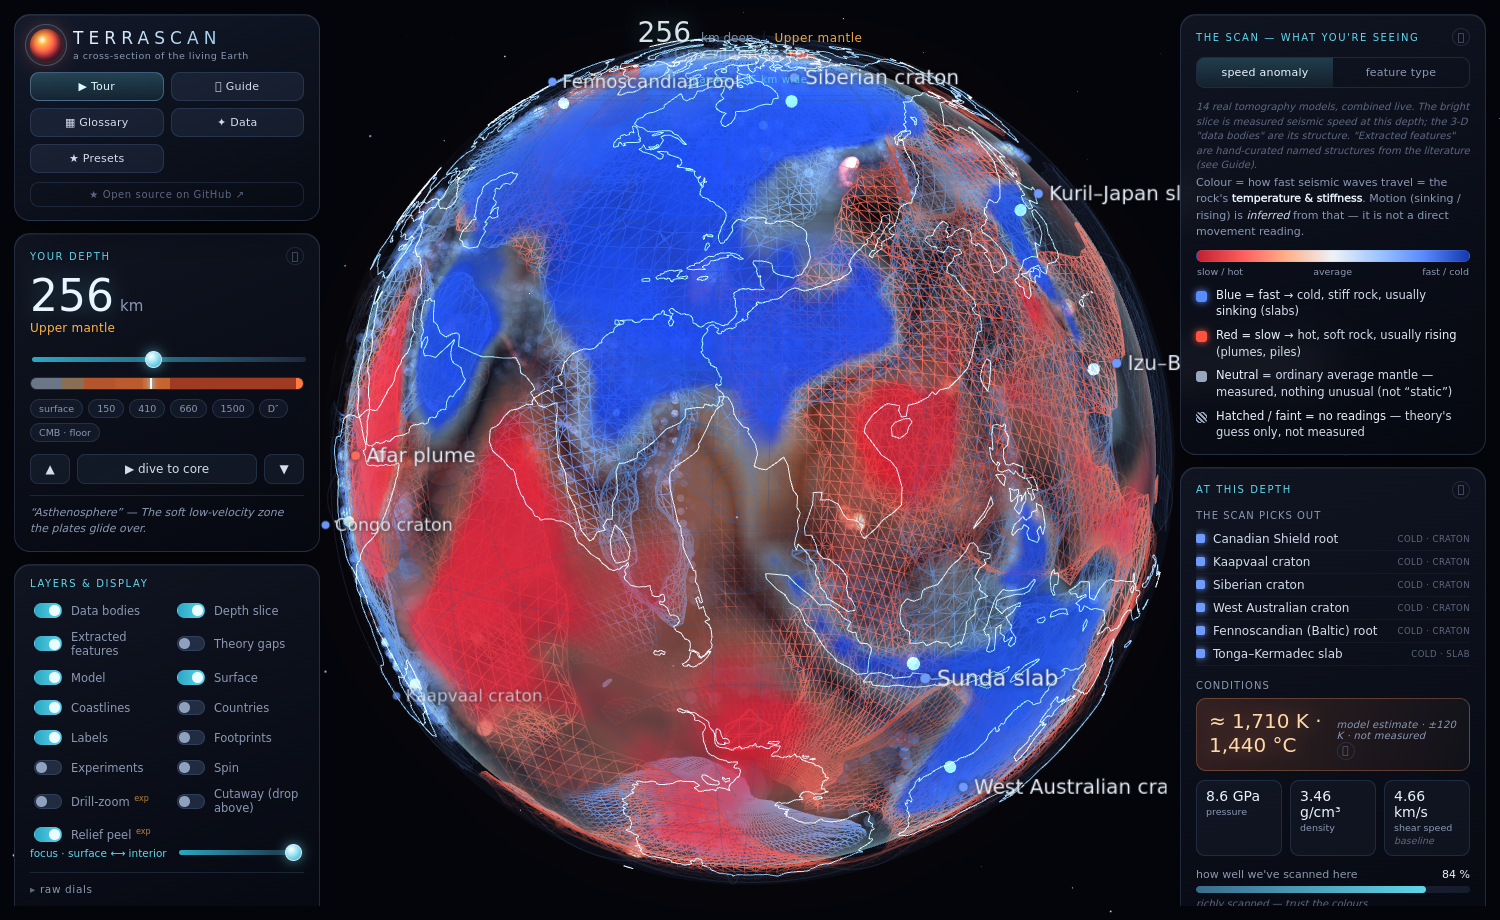
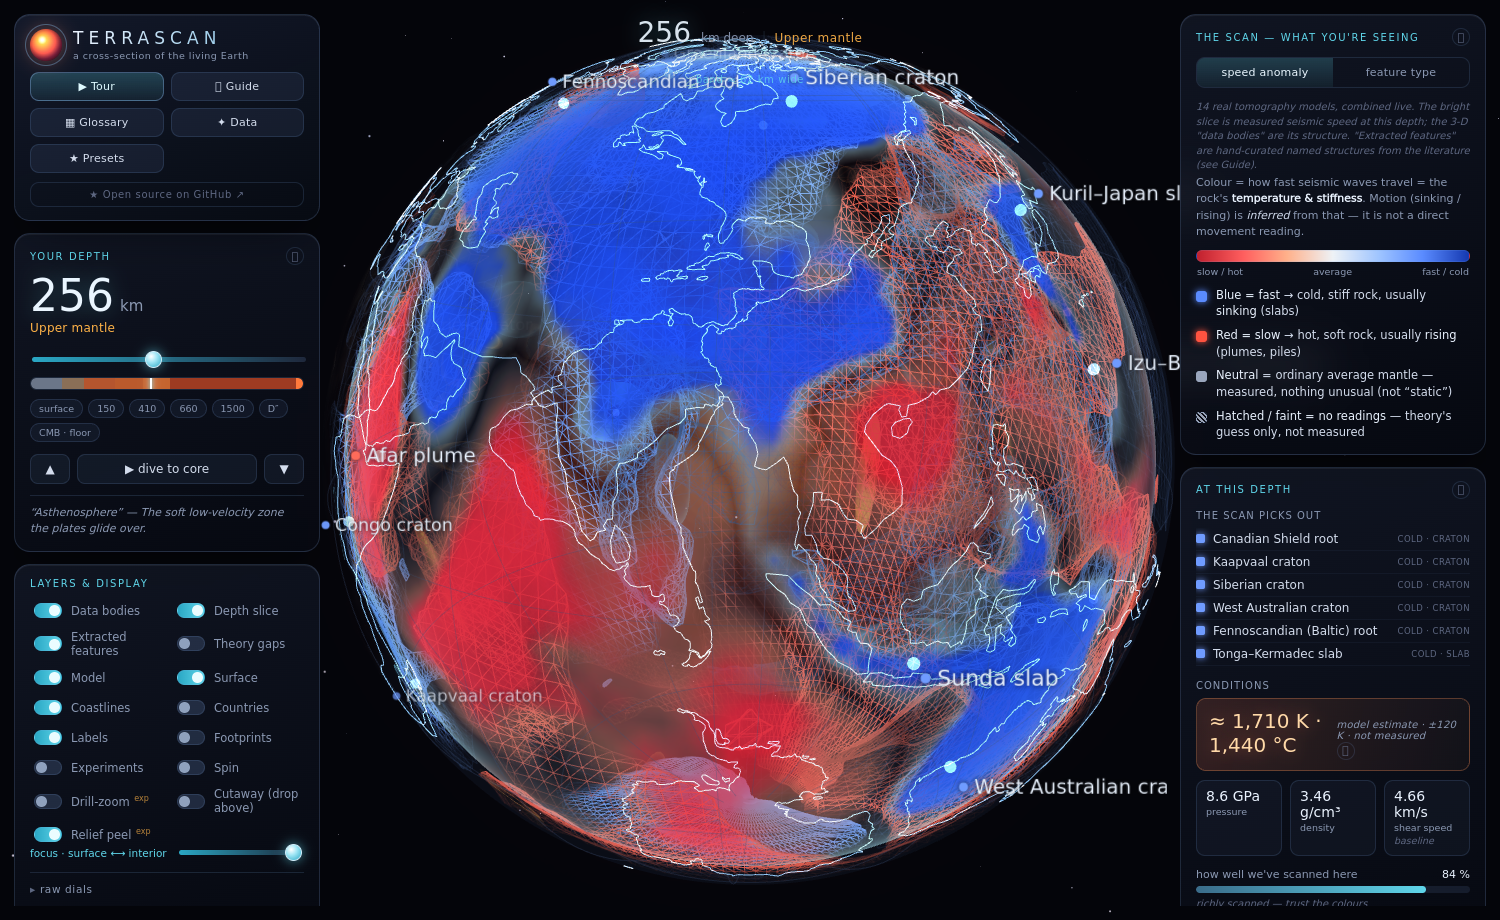
Extracted features: render as translucent ellipsoid SURFACES (azure/amber), distinct from the data mesh
Replaces the additive sphere-blob cloud with one smooth, oriented ellipsoid per feature,
sized to its published lat/lon/depth extent and aligned tangent to the globe — a fresnel-rimmed
translucent surface (InstancedMesh of icospheres + instanceMatrix). New palette shifts the
cold/hot coding to azure (cold) / amber (hot) so the interpretation reads clearly against the
data bodies' deep blue/red. Footprints recoloured to match. All controls preserved
(opacity/glow/size/survey-link, depth band, cutaway, hover/focus, mode, pick proxies).

diff --git a/js/structures.js b/js/structures.js
@@ -1,18 +1,19 @@
-// structures.js — features as a blob FIELD placed in true (lat,lon,depth) space
-// so it always hugs the globe (never tangential / never pokes out). Each feature
-// is drawn at two scales at once: many small blobs (raw resolution) + a sparse
-// set of big soft blobs (the low-res "cluster" / rough shape). One additive
-// instanced cloud for looks; light invisible proxies for hover/extract picking.
+// structures.js — "Extracted features": the hand-curated named structures (slabs, LLSVPs,
+// plumes, cratons, ridges) rendered as smooth translucent SURFACES — one oriented ellipsoid
+// per feature, sized to its published extent and aligned tangent to the globe. Deliberately
+// a DIFFERENT palette from the measured data bodies (azure / amber vs deep blue / red) so the
+// interpretation reads distinctly from the data. Footprints + invisible pick proxies as before.
 import * as THREE from 'three';
 import { FEATURES, CATEGORY } from './tomography.js';
 import { EARTH_RADIUS, depthToUnit } from './earthModel.js';
 import { latLonToVec3 } from './geo.js';
 
-const ANOM = { fast:[0.42,0.62,1.0], slow:[1.0,0.38,0.30] };
+// distinct shades from the data bodies' deep blue/red — keep cold/hot coding, shift hue:
+const ANOM = { fast:[0.45,0.82,1.0], slow:[1.0,0.62,0.28] };   // azure (cold) · amber (hot)
 const catRGB = (id)=>{ const c=new THREE.Color(Object.values(CATEGORY).sort((a,b)=>a.id-b.id)[id].color); return [c.r,c.g,c.b]; };
 function mulberry32(a){return function(){a|=0;a=a+0x6D2B79F5|0;let t=Math.imul(a^a>>>15,1|a);t=t+Math.imul(t^t>>>7,61|t)^t;return((t^t>>>14)>>>0)/4294967296;};}
 
-// per-type DETAIL sampling: points in (lat,lon,depth) — the raw resolution
+// per-type DETAIL sampling: points in (lat,lon,depth) — used to build the surface footprints
 function sampleDetail(f, rnd){
   const pts=[], span=f.dBot-f.dTop, push=(lat,lon,depth,scale)=>pts.push([lat,lon,depth,scale]);
   if(f.type==='plume'){
@@ -49,34 +50,41 @@ function sampleDetail(f, rnd){
   return pts;
 }
 
-const VERT=`precision highp float;
-  uniform mat4 modelViewMatrix, projectionMatrix;
+// ---- per-feature ellipsoid SURFACE shader (instanced) --------------------------
+const VERT=`
+  attribute float aDepth, aAlpha, aFeature, aSupport;
+  attribute vec3 aColorA, aColorB;
   uniform float uCurDepth,uFocus,uMode,uSelFeature,uFocusing,uHoverFeature,uSize;
-  attribute vec3 position, aOffset, aColorA, aColorB;
-  attribute float aScale, aDepth, aAlpha, aFeature, aSupport;
-  varying vec3 vColor; varying float vHi; varying float vA; varying vec3 vL; varying float vAD; varying float vSup;
+  varying float vAD; varying float vSup; varying float vHi; varying float vA;
+  varying vec3 vColor; varying vec3 vN; varying vec3 vView;
   void main(){
     vAD = aDepth; vSup = aSupport;
     float prox = 1.0 - smoothstep(0.0, uFocus, abs(aDepth-uCurDepth));
-    float sel = (uFocusing>0.5 && abs(aFeature-uSelFeature)<0.5) ? 1.0 : 0.0;
-    float hov = (abs(aFeature-uHoverFeature)<0.5) ? 1.0 : 0.0;   // body under the cursor
-    vHi = mix(0.24 + 0.82*prox, 1.05, sel) + hov*0.4;            // softer: dimmer, gentler depth pop
+    float sel  = (uFocusing>0.5 && abs(aFeature-uSelFeature)<0.5) ? 1.0 : 0.0;
+    float hov  = (abs(aFeature-uHoverFeature)<0.5) ? 1.0 : 0.0;
+    vHi = mix(0.5 + 0.5*prox, 1.2, sel) + hov*0.35;
     vColor = mix(aColorA, aColorB, uMode);
-    float vis = uFocusing<0.5 ? 1.0 : (sel>0.5 ? 1.4 : 0.05);
-    vA = aAlpha*vis*(1.0 + hov*0.45); vL = position;
-    vec3 wp = aOffset + position*aScale*uSize*(1.32+0.4*prox + hov*0.3);   // uSize = global body-size dial
-    gl_Position = projectionMatrix*modelViewMatrix*vec4(wp,1.0);
+    float vis = uFocusing<0.5 ? 1.0 : (sel>0.5 ? 1.3 : 0.04);
+    vA = aAlpha*vis*(1.0 + hov*0.4);
+    vec3 lp = position*uSize;                                  // uSize = global body-size dial
+    vec4 mv = modelViewMatrix*instanceMatrix*vec4(lp,1.0);
+    vN = normalize(normalMatrix*mat3(instanceMatrix)*normal);
+    vView = normalize(-mv.xyz);
+    gl_Position = projectionMatrix*mv;
   }`;
-const FRAG=`precision highp float;
-  uniform float uOpacity, uGlow, uDataLink;
-  uniform float uClip, uCurDepth;
-  varying vec3 vColor; varying float vHi; varying float vA; varying vec3 vL; varying float vAD; varying float vSup;
+const FRAG=`
+  uniform float uOpacity, uGlow, uDataLink, uClip, uCurDepth;
+  varying float vAD; varying float vSup; varying float vHi; varying float vA;
+  varying vec3 vColor; varying vec3 vN; varying vec3 vView;
   void main(){
-    if(uClip>0.5 && vAD < uCurDepth - 0.001) discard;
-    float edge=0.66+0.34*clamp(vL.z*0.5+0.5,0.0,1.0);   // gentler shade -> softer, less hard-lit
-    // survey link: fade each blob toward how much the MEASURED ensemble supports it there
-    float link = mix(1.0, vSup, uDataLink);
-    gl_FragColor=vec4(vColor*vHi*edge*vA*uOpacity*uGlow*link, 1.0);
+    if(uClip>0.5 && vAD < uCurDepth - 0.001) discard;          // cutaway: drop above the cut
+    float ndv = abs(dot(normalize(vN), normalize(vView)));
+    float fres = pow(1.0-ndv, 2.5);                            // bright rim -> reads as a surface/membrane
+    float link = mix(1.0, vSup, uDataLink);                    // survey link: fade toward measured support
+    vec3 col = vColor*(0.34*vHi) + vColor*fres*0.95;
+    float a  = (0.085 + 0.55*fres) * vHi * vA * uOpacity * uGlow * link;
+    if(a < 0.004) discard;
+    gl_FragColor = vec4(col, a);
   }`;
 
 // 2D convex hull (monotone chain)
@@ -105,7 +113,7 @@ function buildFootprints(footData){
       const dir=com.clone().multiplyScalar(Math.sqrt(k)).addScaledVector(u,p.x).addScaledVector(v,p.y).normalize();
       verts.push(dir.x*1.002, dir.y*1.002, dir.z*1.002);
     }
-    const col=f.anomaly==='fast'?0x6f9bff:0xff6b5a;
+    const col=f.anomaly==='fast'?0x6fd0ff:0xffae5a;   // match the azure/amber feature palette
     const lg=new THREE.BufferGeometry(); lg.setAttribute('position',new THREE.Float32BufferAttribute(verts,3));
     const lmat=new THREE.LineBasicMaterial({color:col,transparent:true,opacity:0.55,depthTest:false,depthWrite:false,blending:THREE.AdditiveBlending});
     const loop=new THREE.LineLoop(lg,lmat); loop.renderOrder=6; group.add(loop);
@@ -127,63 +135,58 @@ function buildFootprints(footData){
 
 export function makeStructures(){
   const rnd=mulberry32(20260601);
-  const off=[],scl=[],ca=[],cb=[],dep=[],alp=[],fea=[];
-  const llt=[],lln=[],ldp=[];   // per-blob lat/lon/depth, for sampling the measured field
-  const pickProxies=[]; const info=new Map(); const footData=[];
+  const N=FEATURES.length;
+  const aDep=new Float32Array(N), aCa=new Float32Array(N*3), aCb=new Float32Array(N*3),
+        aAl=new Float32Array(N), aFe=new Float32Array(N), aSup=new Float32Array(N).fill(1);
+  const llt=new Float32Array(N), lln=new Float32Array(N), ldp=new Float32Array(N);
+  const mats=[]; const pickProxies=[]; const info=new Map(); const footData=[];
   const proxyGeo=new THREE.SphereGeometry(1,8,6), proxyMat=new THREE.MeshBasicMaterial();
-  let fi=0;
+  const east=new THREE.Vector3(), north=new THREE.Vector3(), radial=new THREE.Vector3(), up=new THREE.Vector3();
+  const DEG=Math.PI/180;
 
-  function add(lat,lon,depth,scale,alpha,fidx,aCol,bCol){
-    let p=latLonToVec3(lat,lon,depthToUnit(depth));
-    const maxR=0.985-scale; if(p.length()>maxR) p.setLength(Math.max(0.05,maxR)); // keep blobs inside the globe
-    off.push(p.x,p.y,p.z); scl.push(scale);
-    ca.push(aCol[0],aCol[1],aCol[2]); cb.push(bCol[0],bCol[1],bCol[2]);
-    dep.push(1.0-p.length()); alp.push(alpha); fea.push(fidx);
-    llt.push(lat); lln.push(lon); ldp.push(depth);
-    return p;
-  }
-
-  for(const f of FEATURES){
+  FEATURES.forEach((f, fi)=>{
     const midD=(f.dTop+f.dBot)/2, rC=depthToUnit(midD);
-    const aCol=ANOM[f.anomaly], bCol=catRGB(CATEGORY[f.type].id);
-    const det=sampleDetail(f,rnd);
-    footData.push({f, dirs:det.map(([la,lo])=>latLonToVec3(la,lo,1)), midR:rC});
-    const bigR=Math.max(0.05, Math.min(0.12, Math.max(f.latExt,f.lonExt)*Math.PI/180*rC*0.42));
-    const stride=Math.max(2, Math.floor(det.length/12));
-    for(let i=0;i<det.length;i++){
-      const [lat,lon,depth,scale]=det[i];
-      add(lat,lon,depth,scale,0.42,fi,aCol,bCol);                 // raw-resolution detail (softer)
-      if(i%stride===0){                                           // sparse low-res cluster blob
-        const p=add(lat,lon,depth,bigR,0.28,fi,aCol,bCol);
-        const pr=new THREE.Mesh(proxyGeo,proxyMat); pr.position.copy(p); pr.scale.setScalar(bigR*1.15);
-        pr.userData={feature:f}; pr.updateMatrixWorld(); pickProxies.push(pr);
-      }
-    }
-    info.set(f,{ center:latLonToVec3(f.lat,f.lon,rC), index:fi,
-      radius:Math.max(bigR, Math.max(f.latExt,f.lonExt)*Math.PI/180*rC, (f.dBot-f.dTop)/2/EARTH_RADIUS*0.7) });
-    fi++;
-  }
+    const p=latLonToVec3(f.lat,f.lon,rC);
+    radial.copy(p).normalize();
+    up.set(0,1,0); if(Math.abs(radial.y)>0.98) up.set(1,0,0);
+    east.crossVectors(up,radial).normalize();
+    north.crossVectors(radial,east).normalize();
+    // half-extents (tangential from the published angular size; radial from the depth span)
+    let sRad=Math.max(0.012,(f.dBot-f.dTop)/2/EARTH_RADIUS);
+    if(rC+sRad>0.985) sRad=Math.max(0.008,0.985-rC);                 // keep the body inside the globe
+    const sEast=Math.max(0.02, f.lonExt*DEG*rC);
+    const sNorth=Math.max(0.02, f.latExt*DEG*rC);
+    const m=new THREE.Matrix4().makeBasis(east,north,radial);
+    m.setPosition(p); m.scale(new THREE.Vector3(sEast,sNorth,sRad));
+    mats.push(m);
+    aDep[fi]=midD/EARTH_RADIUS;
+    const ac=ANOM[f.anomaly], bc=catRGB(CATEGORY[f.type].id);
+    aCa[fi*3]=ac[0]; aCa[fi*3+1]=ac[1]; aCa[fi*3+2]=ac[2];
+    aCb[fi*3]=bc[0]; aCb[fi*3+1]=bc[1]; aCb[fi*3+2]=bc[2];
+    aAl[fi]=1.0; aFe[fi]=fi; llt[fi]=f.lat; lln[fi]=f.lon; ldp[fi]=midD;
+    const pr=new THREE.Mesh(proxyGeo,proxyMat); pr.position.copy(p);
+    pr.scale.setScalar(Math.max(sEast,sNorth,sRad)*0.9); pr.userData={feature:f}; pr.updateMatrixWorld(); pickProxies.push(pr);
+    info.set(f,{ center:p.clone(), index:fi, radius:Math.max(sEast,sNorth,sRad) });
+    footData.push({f, dirs:sampleDetail(f,rnd).map(([la,lo])=>latLonToVec3(la,lo,1)), midR:rC});
+  });
 
-  const base=new THREE.IcosahedronGeometry(1,2);   // rounder blobs (smoother, softer silhouettes)
-  const g=new THREE.InstancedBufferGeometry();
-  g.index=base.index; g.setAttribute('position', base.attributes.position);
-  g.setAttribute('aOffset', new THREE.InstancedBufferAttribute(new Float32Array(off),3));
-  g.setAttribute('aScale',  new THREE.InstancedBufferAttribute(new Float32Array(scl),1));
-  g.setAttribute('aColorA', new THREE.InstancedBufferAttribute(new Float32Array(ca),3));
-  g.setAttribute('aColorB', new THREE.InstancedBufferAttribute(new Float32Array(cb),3));
-  g.setAttribute('aDepth',  new THREE.InstancedBufferAttribute(new Float32Array(dep),1));
-  g.setAttribute('aAlpha',  new THREE.InstancedBufferAttribute(new Float32Array(alp),1));
-  g.setAttribute('aFeature',new THREE.InstancedBufferAttribute(new Float32Array(fea),1));
-  g.setAttribute('aSupport',new THREE.InstancedBufferAttribute(new Float32Array(scl.length).fill(1),1)); // measured support, 1 until sampled
-  g.instanceCount=scl.length;
+  const base=new THREE.IcosahedronGeometry(1,3);   // smooth ellipsoid
+  base.setAttribute('aDepth',  new THREE.InstancedBufferAttribute(aDep,1));
+  base.setAttribute('aColorA', new THREE.InstancedBufferAttribute(aCa,3));
+  base.setAttribute('aColorB', new THREE.InstancedBufferAttribute(aCb,3));
+  base.setAttribute('aAlpha',  new THREE.InstancedBufferAttribute(aAl,1));
+  base.setAttribute('aFeature',new THREE.InstancedBufferAttribute(aFe,1));
+  base.setAttribute('aSupport',new THREE.InstancedBufferAttribute(aSup,1));
 
-  const mat=new THREE.RawShaderMaterial({ transparent:true, depthTest:false, depthWrite:false,
-    blending:THREE.AdditiveBlending, vertexShader:VERT, fragmentShader:FRAG,
-    uniforms:{ uCurDepth:{value:0}, uFocus:{value:0.03}, uMode:{value:0}, uOpacity:{value:0.85},
-      uGlow:{value:0.7}, uSize:{value:0.8}, uDataLink:{value:0},
+  const mat=new THREE.ShaderMaterial({ transparent:true, depthTest:false, depthWrite:false,
+    side:THREE.DoubleSide, blending:THREE.NormalBlending, vertexShader:VERT, fragmentShader:FRAG,
+    uniforms:{ uCurDepth:{value:0}, uFocus:{value:0.03}, uMode:{value:0}, uOpacity:{value:0.9},
+      uGlow:{value:0.7}, uSize:{value:0.9}, uDataLink:{value:0},
       uSelFeature:{value:-1}, uFocusing:{value:0}, uHoverFeature:{value:-1}, uClip:{value:0} } });
 
-  const mesh=new THREE.Mesh(g,mat); mesh.frustumCulled=false; mesh.renderOrder=4;
+  const mesh=new THREE.InstancedMesh(base, mat, N); mesh.frustumCulled=false; mesh.renderOrder=4;
+  for(let i=0;i<N;i++) mesh.setMatrixAt(i, mats[i]);
+  mesh.instanceMatrix.needsUpdate=true;
   const foot=buildFootprints(footData);
 
   return {
@@ -195,9 +198,8 @@ export function makeStructures(){
     setGlow:(v)=>mat.uniforms.uGlow.value=v,
     setSize:(v)=>mat.uniforms.uSize.value=v,
     setDataLink:(v)=>mat.uniforms.uDataLink.value=v,
-    // sample the measured ensemble at each blob's (lat,lon,depth) -> per-blob "support" 0..1
-    setDataSupport:(fn)=>{ if(!fn) return; const a=g.getAttribute('aSupport');
-      for(let i=0;i<llt.length;i++) a.array[i]=fn(llt[i],lln[i],ldp[i]); a.needsUpdate=true; },
+    setDataSupport:(fn)=>{ if(!fn) return; const a=base.getAttribute('aSupport');
+      for(let i=0;i<N;i++) a.array[i]=fn(llt[i],lln[i],ldp[i]); a.needsUpdate=true; },
     setFocusBand:(v)=>mat.uniforms.uFocus.value=v,
     setHover:(f)=>{ mat.uniforms.uHoverFeature.value = f ? info.get(f).index : -1; },
     focus:(f)=>{ if(!f){ mat.uniforms.uFocusing.value=0; } else { mat.uniforms.uFocusing.value=1; mat.uniforms.uSelFeature.value=info.get(f).index; } },